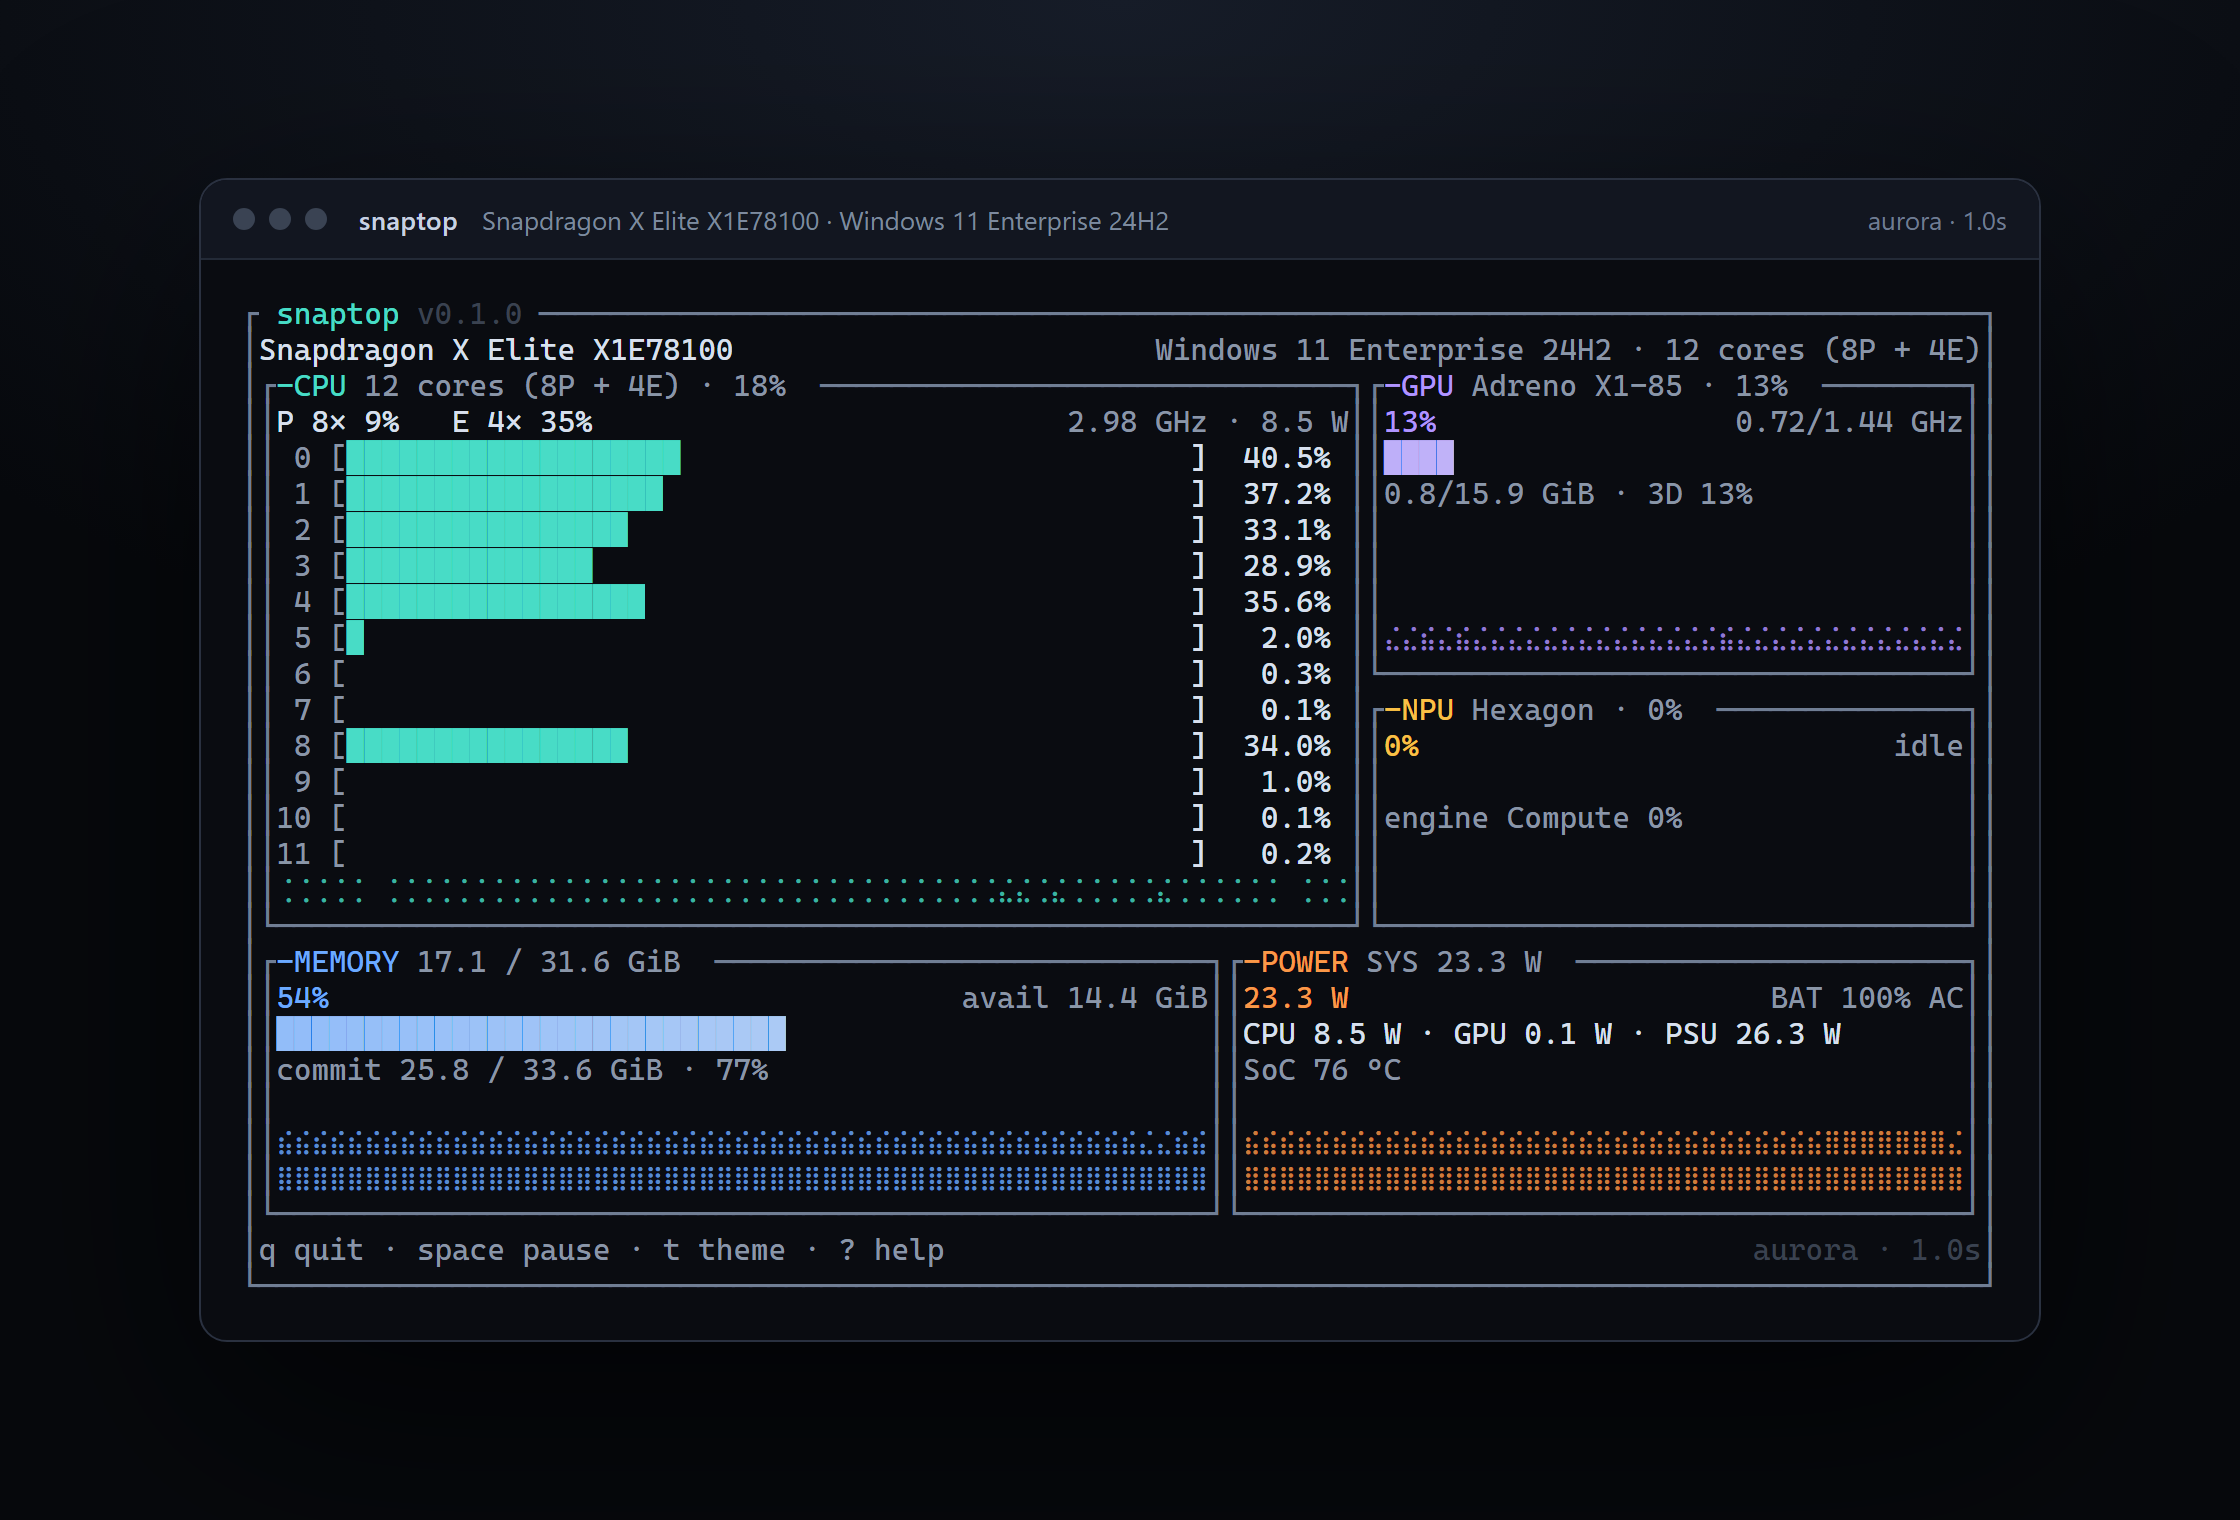
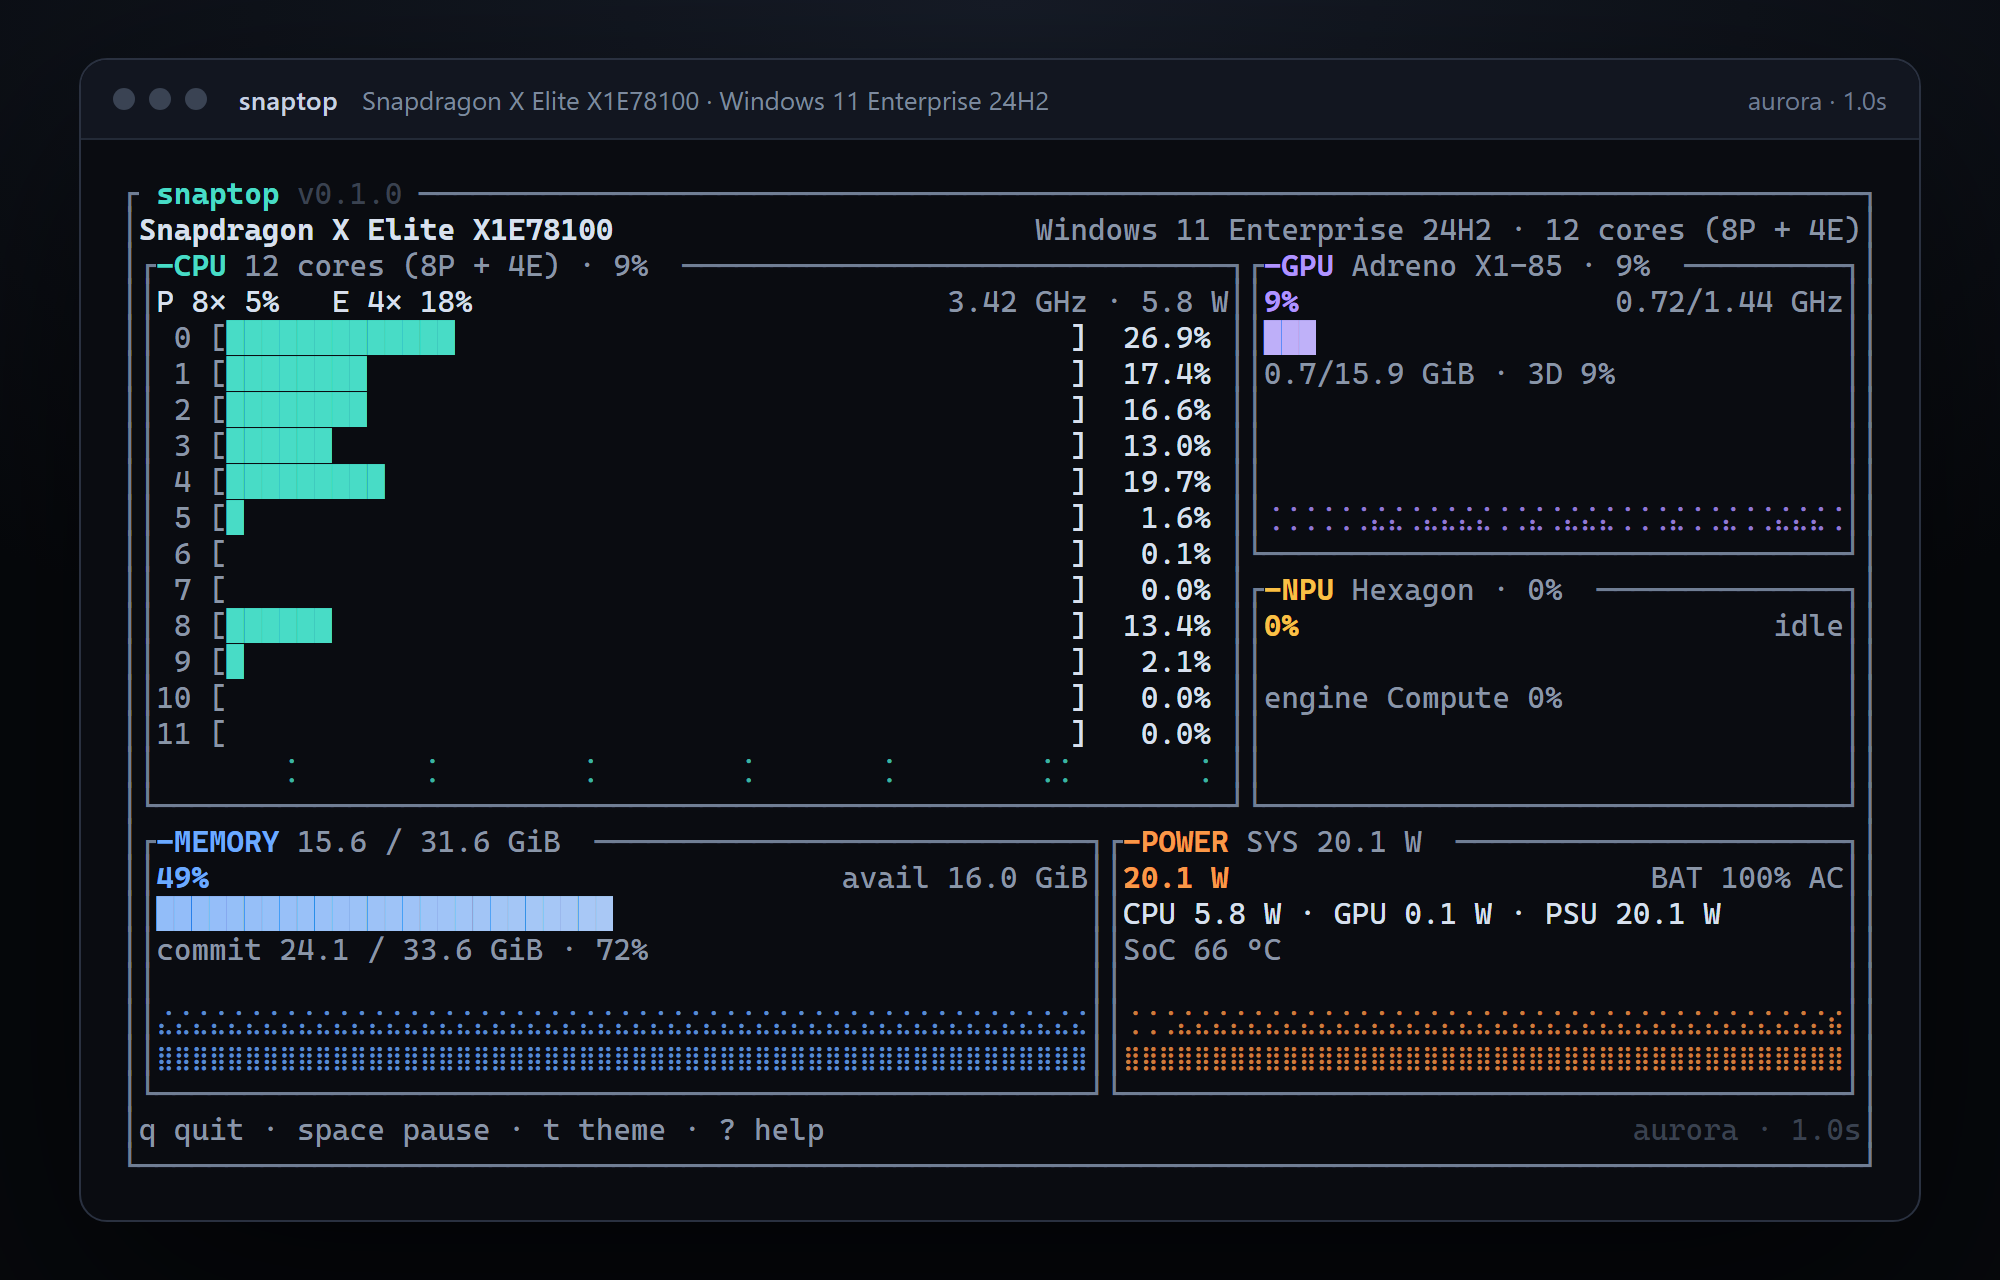
Trim the README screenshot and keep bold text in captures

Changed region(s): [[0.031, 0.0625, 0.93, 0.9062], [0.868, 0.0625, 0.961, 0.0938]]

diff --git a/src/main.rs b/src/main.rs
@@ -270,19 +270,25 @@ fn write_capture(
             let first = &buffer[(x, y)];
             let fg = first.fg;
             let bg = first.bg;
+            let bold = first.modifier.contains(ratatui::style::Modifier::BOLD);
             let mut text = String::new();
             while x < width {
                 let cell = &buffer[(x, y)];
-                if cell.fg != fg || cell.bg != bg {
+                if cell.fg != fg
+                    || cell.bg != bg
+                    || cell.modifier.contains(ratatui::style::Modifier::BOLD) != bold
+                {
                     break;
                 }
                 text.push_str(cell.symbol());
                 x += 1;
             }
+            let weight = if bold { "font-weight:700;" } else { "" };
             rows.push_str(&format!(
-                r#"<span style="color:{};background:{}">{}</span>"#,
+                r#"<span style="color:{};background:{};{}">{}</span>"#,
                 css(fg),
                 css(bg),
+                weight,
                 html_escape(&text)
             ));
         }

diff --git a/docs/screenshot.md b/docs/screenshot.md
@@ -8,12 +8,13 @@ cargo build --release
 
 $chrome = "C:\Program Files\Google\Chrome\Application\chrome.exe"
 & $chrome --headless=new --disable-gpu --hide-scrollbars --force-device-scale-factor=2 `
-  --window-size=1120,760 --screenshot=docs\screenshot.png `
+  --window-size=1000,640 --screenshot=docs\screenshot.png `
   "file:///$((Get-Location).Path -replace '\\','/')/docs/frame.html"
 
 Remove-Item docs\frame.html
 ```
 
-Edge works with the same flags. The HTML uses Cascadia Mono if it is installed,
+The 1000 × 640 viewport leaves a small gradient margin around the card; the
+committed image is 2000 × 1280. Edge works with the same flags. The HTML uses Cascadia Mono if it is installed,
 then Consolas; the frame is sampled over ~10 s at 100 ms so the history has a
 real trace.
